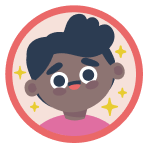
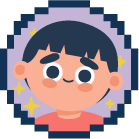
[NEW] - Add new Avt, fix some logic

diff --git a/server/manager/game_state.py b/server/manager/game_state.py
@@ -1,9 +1,11 @@
 from random import randint
 from typing import Dict, List, Optional
-from shared.constants import CHANCE_EVENTS, GO_REWARD, SHOCK_EVENTS, START_MONEY, TILE_MAP
+from shared.constants import CHANCE_EVENTS, GO_REWARD, SHOCK_EVENTS, START_MONEY, TILE_MAP,ESTATES  
 from shared.model import Room, Player, GameManager, Estate, Stock, JailStatus, SavingRecord, EventRecord, ChanceLog, Transaction
 
 class GameState:
+    
+    # Khởi tạo các biến lưu trữ trạng thái game
     def __init__(self):
         self.rooms: Dict[str, Room] = {}
         self.players: Dict[str, Dict[str, Player]] = {}
@@ -15,6 +17,8 @@ class GameState:
         self.events: Dict[str, List[EventRecord]] = {}
         self.chances: Dict[str, List[ChanceLog]] = {}
         self.transactions: Dict[str, List[Transaction]] = {}
+        
+        
 
     def init_room(self, room_id: str, members: List[str]):
         self.rooms[room_id] = Room(roomId=room_id, roomMember=members, status="waiting")
@@ -28,7 +32,17 @@ class GameState:
             current_played=0,
             leader_board=[]
         )
-        self.estates[room_id] = []
+        self.estates[room_id] = [
+        Estate(
+        name=e["name"],
+        owner=None,
+        value=e["price"],
+        position=e["position"],
+        price=e["price"],
+        rent_price=e["rent_price"]
+        )
+            for e in ESTATES
+        ]
         self.stocks[room_id] = {}
         self.jails[room_id] = {}
         self.saving_records[room_id] = []
@@ -36,9 +50,11 @@ class GameState:
         self.chances[room_id] = []
         self.transactions[room_id] = []
 
+    # Hàm để tung xúc xắc, trả về số ngẫu nhiên từ 1 đến 6
     def roll_dice(self) -> int:
         return randint(1, 6)
-
+    
+    # Hàm để di chuyển người chơi đến ô mới dựa trên số xúc xắc
     def move_player(self, room_id: str, player_name: str, steps: int) -> dict:
         player = self.players[room_id][player_name]
         old_position = player.current_position
@@ -63,6 +79,7 @@ class GameState:
             "value": self.get_tile_value(tile)
         }
 
+    # Hàm để lấy chủ sở hữu của ô bất động sản
     def get_tile_owner(self, room_id: str, tile: str) -> Optional[str]:
         for estate in self.estates[room_id]:
             if estate.name == tile:
@@ -70,27 +87,15 @@ class GameState:
         return None
 
     def get_tile_value(self, tile: str) -> float:
-        # Example logic to get tile value
-        tile_values = {
-            "Park Place": 400,
-            "Boardwalk": 500,
-            # Add other tiles here
-        }
-        return tile_values.get(tile, 0)
-
-    def apply_tile_effect(self, room_id: str, player_name: str, tile: str) -> Optional[str]:
         """
-        This function is simplified. You'll need to implement full detail per tile type.
+        Trả về giá trị (price) của ô bất động sản nếu tồn tại, ngược lại trả về 0.
         """
-        if "Shock" in tile:
-            return self.apply_shock_event(room_id, player_name)
-        elif "Chance" in tile:
-            return self.apply_chance_event(room_id, player_name)
-        elif "Jail" in tile:
-            self.put_in_jail(room_id, player_name)
-            return f"{player_name} vào tù"
-        return None
-
+        for estate in ESTATES:
+            if estate["name"] == tile:
+                return estate["price"]
+        return 0.0
+   
+    # Random shock event
     def apply_shock_event(self, room_id: str, player_name: str) -> str:
         import random
         event = random.choice(SHOCK_EVENTS)
@@ -98,6 +103,8 @@ class GameState:
         # Cập nhật giá trị cổ phiếu, bất động sản dựa trên event
         return f"Sự kiện shock: {event['name']}"
 
+
+    # Apply chance event
     def apply_chance_event(self, room_id: str, player_name: str) -> str:
         import random
         player = self.players[room_id][player_name]
@@ -109,6 +116,7 @@ class GameState:
         self.chances[room_id].append(ChanceLog(name=chance["name"], owner=player_name, round=self.managers[room_id].current_round))
         return f"Cơ hội: {chance['name']}"
 
+    # Vao tu 
     def put_in_jail(self, room_id: str, player_name: str):
         jail_status = JailStatus(
             player_name=player_name,
@@ -118,32 +126,31 @@ class GameState:
         )
         self.jails[room_id][player_name] = jail_status
 
-    def buy_estate(self, room_id: str, player_name: str, estate_name: str, price: float):
+    # 
+    def buy_estate(self, room_id: str, player_name: str):
         player = self.players[room_id][player_name]
-        if player.cash >= price:
-            # Deduct money from the player
-            player.cash -= price
+        position = player.current_position
+        tile_name = TILE_MAP[position]
 
-            # Add the estate to the player's properties with all required fields
-            new_estate = Estate(
-                name=estate_name,
-                owner=player_name,
-                value=price,
-                position=player.current_position,  # Assuming position is the player's current position
-                price=price,
-                rent_price=price * 0.1  # Example rent price calculation
-            )
-            self.estates[room_id].append(new_estate)
+        # Tìm estate đúng ô người chơi đang đứng
+        estate = next((e for e in self.estates[room_id] if e.name == tile_name), None)
 
-            # Update the player's net worth
-            player.net_worth += price
+        if not estate:
+            return {"success": False, "message": f"{tile_name} không phải bất động sản."}
+        if estate.owner is not None:
+            return {"success": False, "message": f"{tile_name} đã có chủ sở hữu."}
+        if player.cash < estate.price:
+            return {"success": False, "message": "Không đủ tiền để mua bất động sản."}
 
-            # Update the leaderboard
-            self.update_leaderboard(room_id)
+        # Cập nhật sở hữu và tài sản
+        player.cash -= estate.price
+        estate.owner = player_name
+        player.net_worth += estate.price
 
-            return {"success": True, "message": f"{player_name} successfully bought {estate_name}."}
-        else:
-            return {"success": False, "message": "Insufficient funds to buy the estate."}
+        self.update_leaderboard(room_id)
+
+        return {"success": True, "message": f"{player_name} đã mua {tile_name} với giá {estate.price}$."}
+
 
     def update_leaderboard(self, room_id: str):
         self.managers[room_id].leader_board = sorted(
@@ -265,6 +272,7 @@ class GameState:
             manager.current_played = 0
 
     def end_game(self, room_id: str) -> dict:
+        
         """
         Kết thúc ván chơi → tính tài sản ròng → xếp hạng người chơi.
         """
@@ -276,7 +284,8 @@ class GameState:
                 for name, qty in player.stocks.items()
                 if name in self.stocks[room_id]
             ])
-            estate_value = len(player.estates) * 200  # có thể thay bằng lookup estate thực
+            estate_value = sum(e.value for e in self.estates[room_id] if e.owner == player.player_name)
+
             player.net_worth = round(player.cash + player.saving + stock_value + estate_value, 2)
 
             final_scores.append({
@@ -296,3 +305,27 @@ class GameState:
             "leaderboard": leaderboard,
             "summary": final_scores
         }
+
+    def get_player_position(self, room_id: str, player_name: str) -> Optional[int]:
+        """
+        Trả về vị trí hiện tại của người chơi trong phòng.
+        
+        :param room_id: ID của phòng
+        :param player_name: Tên người chơi
+        :return: Vị trí trên bản đồ (0-based index), hoặc None nếu không tìm thấy
+        """
+        if room_id in self.players and player_name in self.players[room_id]:
+            return self.players[room_id][player_name].current_position
+        return None
+    def apply_tile_effect(self, room_id: str, player_name: str, tile: str) -> Optional[str]:
+        """
+        This function is simplified. You'll need to implement full detail per tile type.
+        """
+        if "Shock" in tile:
+            return self.apply_shock_event(room_id, player_name)
+        elif "Chance" in tile:
+            return self.apply_chance_event(room_id, player_name)
+        elif "Jail" in tile:
+            self.put_in_jail(room_id, player_name)
+            return f"{player_name} vào tù"
+        return None

diff --git a/server/main.py b/server/main.py
@@ -5,6 +5,7 @@ from typing import Dict, List
 
 from fastapi.responses import JSONResponse
 
+from server.request.buy_estate import BuyEstateRequest
 from server.request.create_room import CreateRoomRequest
 from server.request.create_room import CreateRoomRequest
 from server.request.join_room import JoinRoomRequest
@@ -259,23 +260,20 @@ async def end_turn(request: Request):
     return {"message": "Turn ended"}
 
 @app.post("/buy_estate")
-async def buy_estate(request: Request):
-    body = await request.json()
-    room_id = body["room_id"]
-    player_name = body["player_name"]
-    estate_name = body["estate_name"]
-    price = body["price"]
+async def buy_estate(body: BuyEstateRequest):
 
+    room_id = body.room_id
+    player_name = body.player_name
+
+    current_position = state.get_player_position(room_id, player_name)
     # Process the purchase
-    result = state.buy_estate(room_id, player_name, estate_name, price)
+    result = state.buy_estate(room_id, player_name, state.current_tile)
 
     if result["success"]:
         # Broadcast the purchase to other players
         await manager.broadcast(room_id, {
             "type": "estate_purchased",
             "player": player_name,
-            "estate": estate_name,
-            "price": price,
             "message": result["message"],
             "leaderboard": state.managers[room_id].leader_board
         })

diff --git a/server/request/buy_estate.py b/server/request/buy_estate.py
@@ -1,0 +1,6 @@
+from openai import BaseModel
+
+
+class BuyEstateRequest(BaseModel):
+    room_id: str
+    player_name: str
